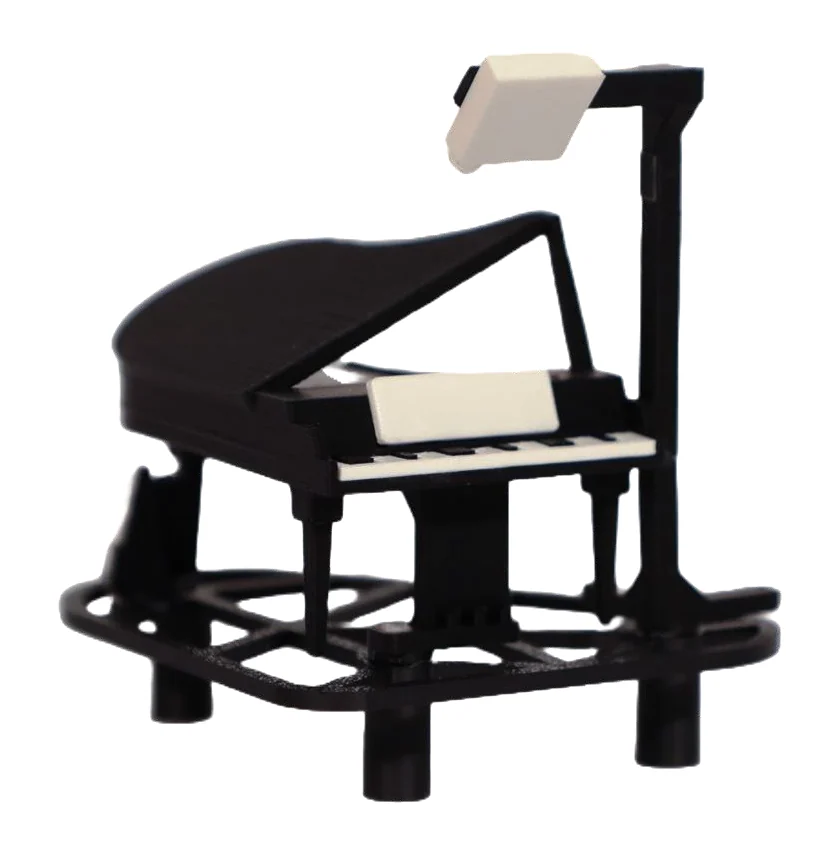
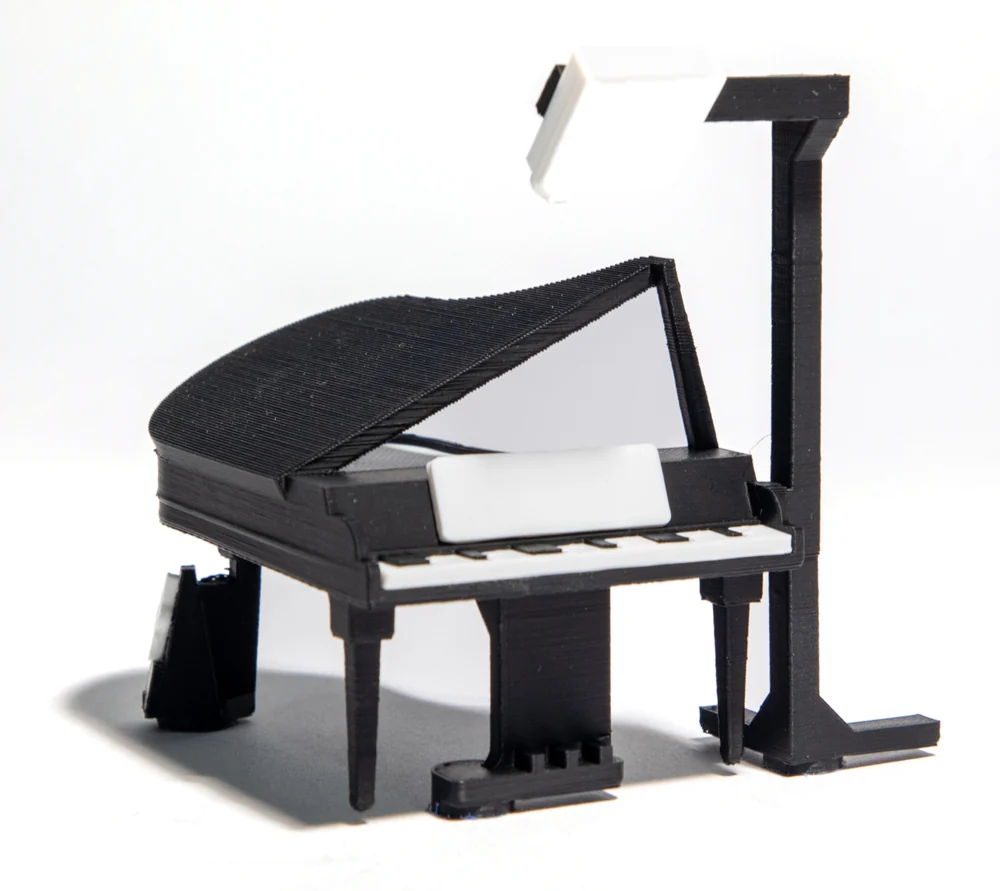
Use original photos on the Co-Ideation page
Replaces the low-resolution figures extracted from the papers with the studio originals: the abacus, piano and Macintosh mentors, all five form-finding studies (now including the Play-Doh model), the footprint, both shelves, the lighthouse beam in use and the two-person table shot. Adds the ArUco-marker figurines to the first sensing prototype. Studio backdrops are flat-fielded to white so the objects keep their own highlights. The shelf photo now follows the toggle and turns upside down when the shelf is tipped.

diff --git a/src/projects/co-ideation-across-time.html b/src/projects/co-ideation-across-time.html
@@ -73,7 +73,7 @@ scripts: ["/assets/js/co-ideation.js"]
     <p class="ci-sub">A 50-inch screen lies flat under an infrared touch frame. Every object stands on three legs, and the frame reads each one by the triangle its legs make.</p>
   </div>
   <figure class="ci-set__photo">
-    <img src="/media/co-ideation-across-time/ci-table.webp" width="2200" height="1467" alt="A low wooden table with a black touch screen; the abacus, piano, Macintosh, Mona Lisa, lighthouse and two shelves stand on it" loading="lazy" decoding="async">
+    <img src="/media/co-ideation-across-time/ci-table.webp" width="2600" height="1733" alt="A low wooden table with a black touch screen; the abacus, piano, Macintosh, Mona Lisa, lighthouse and two shelves stand on it" loading="lazy" decoding="async">
   </figure>
   <div class="ci-wrap">
     <ol class="ci-set__list">
@@ -136,19 +136,19 @@ scripts: ["/assets/js/co-ideation.js"]
     <p class="ci-sub">Design education runs on critique: a mentor responds to work in progress with questions, redirections and advocacy. Each mentor here argues from one point of view, and is represented not by a likeness but by an object its perspective is known for.</p>
     <ul class="ci-tiles">
       <li style="--c: var(--ci-blue)">
-        <figure class="ci-tile"><img src="/media/co-ideation-across-time/obj-abacus.webp" width="517" height="529" alt="A curved abacus with wooden beads on a black three-legged base" loading="lazy" decoding="async"></figure>
+        <figure class="ci-tile"><img src="/media/co-ideation-across-time/obj-abacus.webp" width="1000" height="745" alt="A curved abacus with wooden beads on a black three-legged base" loading="lazy" decoding="async"></figure>
         <p class="ci-tile__no ci-mono">mentor_01 · abacus</p>
         <h3>the hci researcher</h3>
         <p>Modelled on Prof. Hiroshi Ishii's research side. He often cites the abacus as the embodiment of his research vision: computation you can touch.</p>
       </li>
       <li style="--c: var(--ci-amber)">
-        <figure class="ci-tile"><img src="/media/co-ideation-across-time/obj-piano.webp" width="840" height="861" alt="A black grand piano with a small reading lamp, on a black base" loading="lazy" decoding="async"></figure>
+        <figure class="ci-tile"><img src="/media/co-ideation-across-time/obj-piano.webp" width="1000" height="891" alt="A black grand piano with a small reading lamp, on a black base" loading="lazy" decoding="async"></figure>
         <p class="ci-tile__no ci-mono">mentor_02 · piano</p>
         <h3>a second hci voice</h3>
         <p>A persona built from another HCI researcher's published work: a second academic lens, so two researchers can disagree.</p>
       </li>
       <li style="--c: var(--ci-green)">
-        <figure class="ci-tile"><img src="/media/co-ideation-across-time/obj-mac.webp" width="900" height="666" alt="A beige Macintosh computer with keyboard and mouse on a black base" loading="lazy" decoding="async"></figure>
+        <figure class="ci-tile"><img src="/media/co-ideation-across-time/obj-mac.webp" width="1100" height="1046" alt="A beige Macintosh computer with keyboard and mouse on a black base" loading="lazy" decoding="async"></figure>
         <p class="ci-tile__no ci-mono">mentor_03 · macintosh</p>
         <h3>the entrepreneur</h3>
         <p>A Steve Jobs persona with an entrepreneurial lens: who it's for, why it matters, and what to leave out.</p>
@@ -245,7 +245,7 @@ scripts: ["/assets/js/co-ideation.js"]
     <div class="ci-light__grid">
       <div>
         <p class="ci-sub">Brainstorming, you rarely know what already exists around you. Place the lighthouse on a room and black smoke covers the canvas. An LLM sorts the idea's neighbourhood into three clusters (main themes, adjacent contexts, technical foundations) and fills each with at least five papers from Semantic Scholar, arXiv and Crossref. Rotate the tower and its 90° beam reveals one cluster at a time, so there is less to take in at once.</p>
-        <figure class="ci-light__photo"><img src="/media/co-ideation-across-time/ci-beam.webp" width="1365" height="2048" alt="A hand rotating the black lighthouse on the dark screen; its beam lights up a fan of paper cards" loading="lazy" decoding="async"></figure>
+        <figure class="ci-light__photo"><img src="/media/co-ideation-across-time/ci-beam.webp" width="2400" height="1372" alt="A hand turning the lighthouse on the dark screen; its beam lights up a fan of paper cards with titles and authors" loading="lazy" decoding="async"></figure>
       </div>
       <div class="ci-beam">
         <svg class="ci-beam__svg" viewBox="0 0 600 520" role="application" aria-label="Lighthouse. Drag to rotate the beam, or use the arrow keys." tabindex="0"></svg>
@@ -268,7 +268,7 @@ scripts: ["/assets/js/co-ideation.js"]
     <p class="ci-sub">Mentors advocate; shelves judge. Place one on an idea to sharpen every mentor's view to a single criterion. A bookshelf reads it as research, a supermarket shelf as a product. Reports come as a notepad or a receipt, always four sections of three bullets. Tip the shelf over and the same idea is judged harshly.</p>
     <div class="ci-shelf__grid">
       <div class="ci-shelf__ctl">
-        <figure class="ci-shelf__photo"><img src="/media/co-ideation-across-time/ci-shelves.webp" width="2048" height="1365" alt="The blue supermarket shelf and the black bookshelf with red books" loading="lazy" decoding="async"></figure>
+        <figure class="ci-shelf__photo"><img src="/media/co-ideation-across-time/shelf-books.webp" width="1100" height="787" alt="The bookshelf: a black shelf of red and white books on three legs" loading="lazy" decoding="async"></figure>
         <div class="ci-seg" role="radiogroup" aria-label="Shelf">
           <button type="button" role="radio" aria-checked="true" data-shelf="books" style="--c: var(--ci-red)">bookshelf · publishability</button>
           <button type="button" role="radio" aria-checked="false" data-shelf="market" style="--c: var(--ci-sky)">supermarket · commercialization</button>
@@ -292,20 +292,20 @@ scripts: ["/assets/js/co-ideation.js"]
     <div class="ci-track">
       <p class="ci-track__label ci-mono"><b>a</b> form: finding the figurine</p>
       <ol class="ci-steps">
-        <li><figure><img src="/media/co-ideation-across-time/form-1.webp" width="361" height="318" alt="A small humanoid figure with glasses, printed in black and white" loading="lazy" decoding="async"></figure><b>a person.</b>Humanoid first. Black conductive filament only, so a second colour made it friendlier.</li>
-        <li><figure><img src="/media/co-ideation-across-time/form-2.webp" width="410" height="463" alt="A black spiky figure on three thin legs" loading="lazy" decoding="async"></figure><b>legs.</b>Lifting the body off the glass frees the screen beneath for a digital shadow.</li>
-        <li><figure><img src="/media/co-ideation-across-time/form-3.webp" width="342" height="365" alt="An abstract black block with a sphere on top" loading="lazy" decoding="async"></figure><b>too abstract.</b>Pure geometry lost the playful feeling that makes brainstorming fun.</li>
-        <li><figure><img src="/media/co-ideation-across-time/form-4.webp" width="358" height="275" alt="A hand holding a teal triangular piece with three round pads" loading="lazy" decoding="async"></figure><b>made to hold.</b>Shapes modelled in Play-Doh to invite a grip, within the limits of capacitive sensing.</li>
-        <li><figure><img src="/media/co-ideation-across-time/form-5.webp" width="530" height="550" alt="A triangular black abacus with white beads" loading="lazy" decoding="async"></figure><b>an abacus.</b>Moving beads, easy to grasp, with the three contact points hidden in the frame.</li>
-        <li><figure class="is-final"><img src="/media/co-ideation-across-time/obj-abacus.webp" width="517" height="529" alt="The final curved abacus with wooden beads" loading="lazy" decoding="async"></figure><b>a symbol.</b>Final form: an object the person stands for, not a portrait of them.</li>
+        <li><figure><img src="/media/co-ideation-across-time/form-1.webp" width="800" height="657" alt="A small humanoid figure with glasses, printed in black and white" loading="lazy" decoding="async"></figure><b>a person.</b>Humanoid first. Black conductive filament only, so a second colour made it friendlier.</li>
+        <li><figure><img src="/media/co-ideation-across-time/form-2.webp" width="800" height="1009" alt="A black spiky figure on three thin legs" loading="lazy" decoding="async"></figure><b>legs.</b>Lifting the body off the glass frees the screen beneath for a digital shadow.</li>
+        <li><figure><img src="/media/co-ideation-across-time/form-3.webp" width="800" height="996" alt="An abstract black block with a sphere on top" loading="lazy" decoding="async"></figure><b>too abstract.</b>Pure geometry lost the playful feeling that makes brainstorming fun.</li>
+        <li><figure><img src="/media/co-ideation-across-time/form-4.webp" width="900" height="731" alt="A hand holding a teal and yellow Play-Doh shape on a black three-legged base" loading="lazy" decoding="async"></figure><b>made to hold.</b>Shapes modelled in Play-Doh to invite a grip, within the limits of capacitive sensing.</li>
+        <li><figure><img src="/media/co-ideation-across-time/form-5.webp" width="800" height="786" alt="A triangular black abacus with white beads" loading="lazy" decoding="async"></figure><b>an abacus.</b>Moving beads, easy to grasp, with the three contact points hidden in the frame.</li>
+        <li><figure class="is-final"><img src="/media/co-ideation-across-time/obj-abacus.webp" width="1000" height="745" alt="The final curved abacus with wooden beads" loading="lazy" decoding="async"></figure><b>a symbol.</b>Final form: an object the person stands for, not a portrait of them.</li>
       </ol>
     </div>
 
     <div class="ci-track">
       <p class="ci-track__label ci-mono"><b>b</b> sensing: how the table knows</p>
       <ol class="ci-cards">
-        <li><span class="ci-mono">v1</span><b>markers + camera</b>ArUco markers tracked by an overhead camera: reliable identity, height and 3D orientation. But the top of every object had to stay visible, which fights expressive handling.</li>
-        <li class="has-img"><span class="ci-mono">v2</span><b>conductive feet</b><img src="/media/co-ideation-across-time/footprint.webp" width="633" height="435" alt="A black triangular base with three round conductive pads" loading="lazy" decoding="async">Three conductive contact points per base, read by an ordinary capacitive screen. The distances between them encode identity and orientation. Ten footprints were generated and tested. Ten touch points means three objects at once.</li>
+        <li class="has-img"><span class="ci-mono">v1</span><b>markers + camera</b><img src="/media/co-ideation-across-time/aruco.webp" width="1100" height="836" alt="Two grey seated figurines with printed ArUco markers on top of their heads" loading="lazy" decoding="async">ArUco markers tracked by an overhead camera: reliable identity, height and 3D orientation. But the top of every object had to stay visible, which fights expressive handling.</li>
+        <li class="has-img"><span class="ci-mono">v2</span><b>conductive feet</b><img src="/media/co-ideation-across-time/footprint.webp" width="1100" height="684" alt="A black triangular base with three round conductive pads" loading="lazy" decoding="async">Three conductive contact points per base, read by an ordinary capacitive screen. The distances between them encode identity and orientation. Ten footprints were generated and tested. Ten touch points means three objects at once.</li>
         <li><span class="ci-mono">v3</span><b>infrared frame</b>A 50-inch infrared touch frame over a 50-inch display. Each object is a unique three-leg footprint, so the screen beneath stays free for shadows and gaze beams.</li>
       </ol>
     </div>
@@ -400,7 +400,7 @@ scripts: ["/assets/js/co-ideation.js"]
   <figure class="ci-shot ci-shot--full"><img src="/media/co-ideation-across-time/ci-dark.webp" width="2048" height="1365" alt="On the dark screen, the abacus and the Macintosh cast blue and green shadows beside the glowing red bookshelf, between a notepad report and a receipt" loading="lazy" decoding="async"></figure>
   <div class="ci-wrap ci-gallery__pair">
     <figure class="ci-shot"><img src="/media/co-ideation-across-time/ci-hands.webp" width="2048" height="1365" alt="Two hands moving the abacus and the Macintosh across the pale blue canvas" loading="lazy" decoding="async"></figure>
-    <figure class="ci-shot"><img src="/media/co-ideation-across-time/02.webp" width="2000" height="1123" alt="Two people reach across the table, each placing a figurine on the screen" loading="lazy" decoding="async"></figure>
+    <figure class="ci-shot"><img src="/media/co-ideation-across-time/ci-duo.webp" width="2400" height="1600" alt="Two people reach across the table, each placing a figurine on the screen" loading="lazy" decoding="async"></figure>
   </div>
   <figure class="ci-shot ci-shot--full ci-shot--light"><img src="/media/co-ideation-across-time/ci-canvas.webp" width="2400" height="1350" alt="A full session canvas: dozens of colour-coded idea bubbles and rooms branching across the screen, with mentor sketches" loading="lazy" decoding="async"></figure>
   <div class="ci-wrap ci-film">

diff --git a/src/assets/js/co-ideation.js b/src/assets/js/co-ideation.js
@@ -845,8 +845,26 @@
         ] },
       },
     };
+    var photo = document.querySelector(".ci-shelf__photo");
+    var img = photo && photo.querySelector("img");
+    var PHOTOS = {
+      books: { src: "/media/co-ideation-across-time/shelf-books.webp", w: 1100, h: 787, alt: "The bookshelf: a black shelf of red and white books on three legs" },
+      market: { src: "/media/co-ideation-across-time/shelf-market.webp", w: 1100, h: 681, alt: "The supermarket shelf: black pegboard shelves stocked with blue products" },
+    };
     var shelf = "books", tipped = false;
+    function showPhoto() {
+      if (!img) return;
+      var ph = PHOTOS[shelf];
+      if (img.getAttribute("src") !== ph.src) {
+        img.src = ph.src;
+        img.width = ph.w;
+        img.height = ph.h;
+        img.alt = ph.alt;
+      }
+      photo.classList.toggle("is-tipped", tipped);
+    }
     function render() {
+      showPhoto();
       var r = R[shelf][tipped ? "down" : "up"];
       var doc = html("article", "ci-doc" + (shelf === "market" ? " ci-doc--receipt" : ""));
       doc.style.setProperty("--c", r.color);

diff --git a/src/assets/css/co-ideation.css b/src/assets/css/co-ideation.css
@@ -1197,7 +1197,6 @@
 }
 
 .ci-light__photo {
-  max-width: 340px;
   margin-top: 2.5rem;
 }
 
@@ -1323,12 +1322,26 @@
 }
 
 .ci-shelf__photo {
-  mix-blend-mode: darken;
+  position: relative;
+  aspect-ratio: 3 / 2;
   margin-bottom: 1.4rem;
+  border-radius: 14px;
+  background: #fff;
+  overflow: hidden;
 }
 
 .ci-shelf__photo img {
-  width: 100%;
+  position: absolute;
+  inset: 8%;
+  width: 84%;
+  height: 84%;
+  object-fit: contain;
+  transition: transform 0.6s cubic-bezier(0.3, 1.3, 0.5, 1);
+}
+
+/* tipping the shelf turns the photo upside down, like the real object */
+.ci-shelf__photo.is-tipped img {
+  transform: rotate(180deg);
 }
 
 .ci-seg {
@@ -2207,10 +2220,6 @@
   .ci-across {
     flex-direction: column;
     gap: 1rem;
-  }
-
-  .ci-light__photo {
-    display: none;
   }
 
   .ci-protocol b {
